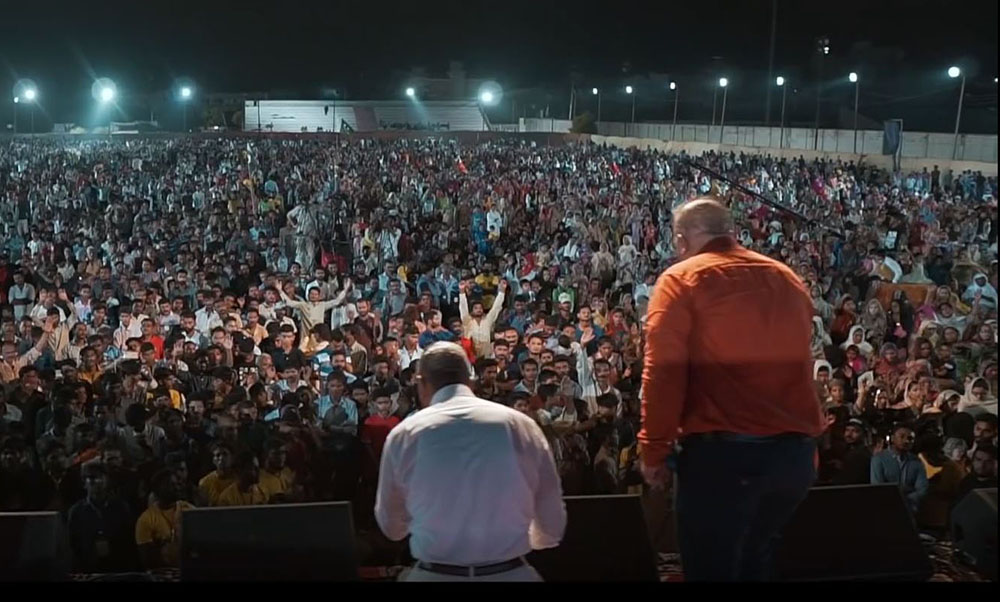
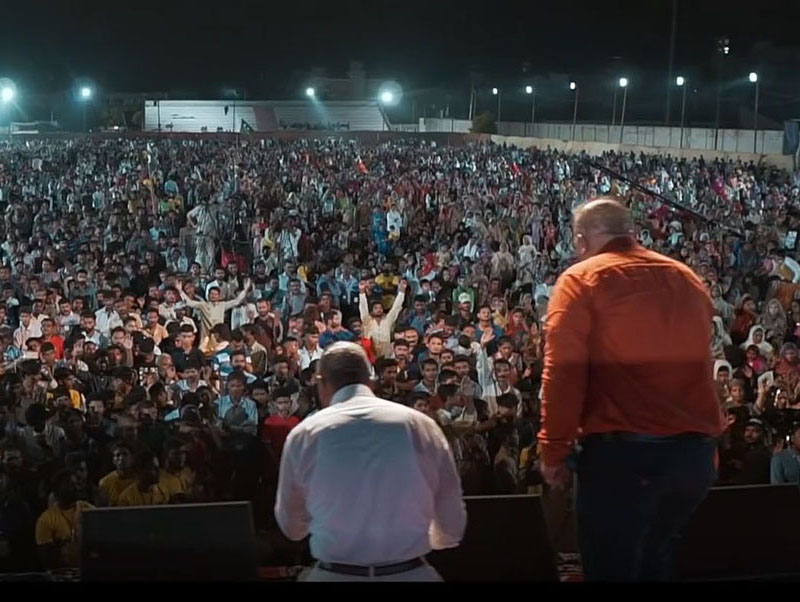
feb 10 12:37

diff --git a/src/components/About.jsx b/src/components/About.jsx
@@ -2,8 +2,8 @@ import React from 'react'
 import { NavLink } from 'react-router-dom'
 import imageCall from './images/ed-pastor-with-freedom-arena.jpg'
 //import imageCall1 from './images/dominican-crusade.jpg'
-import imageCall2 from './images/holy-sprit-with-ed.jpg'
-import imageCall1 from './images/holy-sprit-with-ed-mobile.jpg'
+import imageCall2 from './images/holy-sprit-with-ed1.jpg'
+import imageCall1 from './images/holy-sprit-with-ed-mobile1.jpg'
 import Gallery from './Gallery';
 const About = () => {
     const isMobile = window.matchMedia("(max-width: 768px)").matches;
@@ -18,10 +18,10 @@ const About = () => {
       ) : (
         <img src={imageCall2} alt="Desktop Image" class="cover-image" />
       )}
-   <div class="text-overlay">
+   {/* <div class="text-overlay">
                         <h1>가장 친한 친구인 성령님께 감사와 찬양
 </h1>
-                    </div>
+                    </div> */}
                 </div>
             </div>
         </div>
